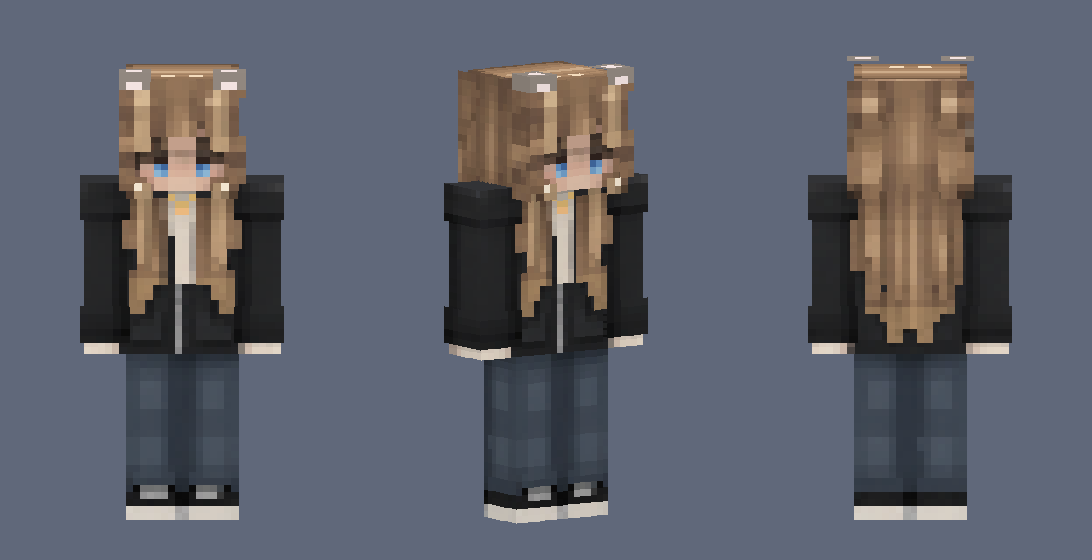
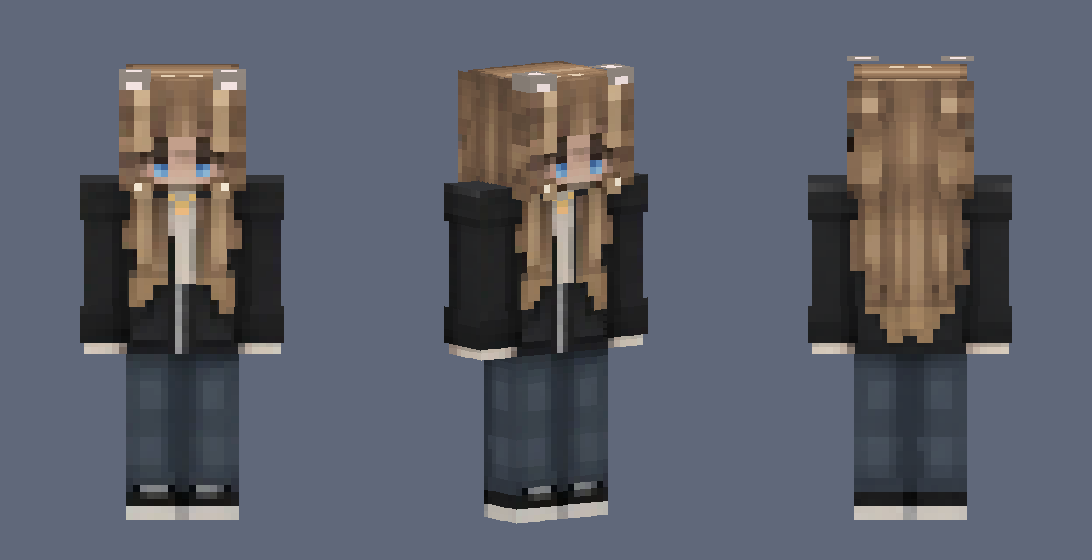
Resample front of the skin from the sharp close-up on the measured block grid
Claude-Session: https://claude.ai/code/session_01E8KVnok6Fx7faRrVpDBB9K

diff --git a/minecraft-skin/make_skin.py b/minecraft-skin/make_skin.py
@@ -1,44 +1,51 @@
-# Builds the 128x128 Bedrock skin by sampling the reference render (reference.png) texel by texel.
-import sys
+# Builds the 128x128 Bedrock skin by sampling the reference renders texel by texel.
+#   ref/front_close.png  sharp close-up of the front view   (main source)
+#   reference.png        overview with 3/4 and back view    (sides, top, back)
 from PIL import Image
-REF = Image.open("reference.png").convert("RGB"); RP = REF.load()
-GAIN = 1.22
-HOOD = (37,37,39)
+HI = Image.open("ref/front_close.png").convert("RGB"); KH = HI.width/924      # coords below are in a 924px-wide frame
+LO = Image.open("reference.png").convert("RGB")
+GAIN = 1.15
 
-def med(x, y, r=1):
-    xs = [RP[int(x)+i, int(y)+j] for i in range(-r, r+1) for j in range(-r, r+1)]
-    return tuple(sorted(c[k] for c in xs)[len(xs)//2] for k in range(3))
 def bright(c): return tuple(min(255, int(v*GAIN+0.5)) for v in c)
 def is_hair(c):
     r, g, b = c
-    return r > 40 and (r-b)/r > 0.29 and r < 200
+    return 40 < r < 200 and (r-b)/r > 0.29
+def cell(img, x0, y0, x1, y1):                      # median colour of the inner part of a box
+    mx, my = (x1-x0)*0.22, (y1-y0)*0.22
+    box = img.crop((int(x0+mx), int(y0+my), max(int(x0+mx)+1, int(x1-mx)), max(int(y0+my)+1, int(y1-my))))
+    px = list(box.getdata() if not hasattr(box, "get_flattened_data") else box.get_flattened_data())
+    return tuple(sorted(p[k] for p in px)[len(px)//2] for k in range(3))
+def grid(img, k, x0, y0, x1, y1, w, h):             # sample a w*h texel grid from a rectangle
+    return {(i, j): cell(img, k*(x0+i*(x1-x0)/w), k*(y0+j*(y1-y0)/h), k*(x0+(i+1)*(x1-x0)/w), k*(y0+(j+1)*(y1-y0)/h))
+            for j in range(h) for i in range(w)}
+def quad(ox, oy, z, tl, tr, br, bl, w, h):          # sample a perspective quad from the overview
+    out = {}
+    for j in range(h):
+        for i in range(w):
+            a, b = (i+.5)/w, (j+.5)/h
+            X = (1-a)*(1-b)*tl[0] + a*(1-b)*tr[0] + a*b*br[0] + (1-a)*b*bl[0]
+            Y = (1-a)*(1-b)*tl[1] + a*(1-b)*tr[1] + a*b*br[1] + (1-a)*b*bl[1]
+            out[i, j] = cell(LO, ox+X/z-2, oy+Y/z-2, ox+X/z+2, oy+Y/z+2)
+    return out
+def front(x0, y0, x1, y1, w, h): return grid(HI, KH, x0, y0, x1, y1, w, h)
+def back(x0, y0, x1, y1, w, h):  return grid(LO, 0.25, x0+2800, y0+3760, x1+2800, y1+3760, w, h)   # crop origin (700,940), zoom 4
+def chunky(g, n=2):                                 # 8x8 blocks -> 16x16 texels
+    return {(i*n+a, j*n+b): c for (i, j), c in g.items() for a in range(n) for b in range(n)}
 
-class View:                                    # zoomed-crop coordinates -> reference pixels
-    def __init__(s, ox, oy, z=4): s.ox, s.oy, s.z = ox, oy, z
-    def rect(s, x0, y0, x1, y1, w, h):         # sample a w*h grid of texels
-        out = {}
-        for j in range(h):
-            for i in range(w):
-                X = s.ox + (x0 + (i+.5)*(x1-x0)/w)/s.z
-                Y = s.oy + (y0 + (j+.5)*(y1-y0)/h)/s.z
-                out[i, j] = med(X, Y)
-        return out
-    def quad(s, tl, tr, br, bl, w, h):
-        out = {}
-        for j in range(h):
-            for i in range(w):
-                a, b = (i+.5)/w, (j+.5)/h
-                X = (1-a)*(1-b)*tl[0] + a*(1-b)*tr[0] + a*b*br[0] + (1-a)*b*bl[0]
-                Y = (1-a)*(1-b)*tl[1] + a*(1-b)*tr[1] + a*b*br[1] + (1-a)*b*bl[1]
-                out[i, j] = med(s.ox + X/s.z, s.oy + Y/s.z)
-        return out
-F = View(90, 940); B = View(700, 940); M = View(390, 940, 3)
+# ---- hair palette taken from the sharp front view; low-res samples are snapped to it ----
+HEAD = (217, 298, 660, 730)                         # measured block grid of the head in the close-up
+_hat8 = front(*HEAD, 8, 8)
+_bf = front(235, 705, 650, 1345, 16, 24)
+_pal = sorted({c for c in list(_hat8.values()) + list(_bf.values()) if is_hair(c) and c[0] >= 70})
+def snap(c):
+    if not is_hair(c): return c
+    return min(_pal, key=lambda p: sum((a-b)**2 for a, b in zip(p, c)))
 
 def build(slim=True):
     img = Image.new("RGBA", (128, 128), (0, 0, 0, 0)); px = img.load()
-    def put(x, y, grid, keep=None, flip=False, fn=None):
-        w = max(i for i, _ in grid)+1
-        for (i, j), c in grid.items():
+    def put(x, y, g, keep=None, flip=False, fn=None):
+        w = max(i for i, _ in g)+1
+        for (i, j), c in g.items():
             if keep and not keep(i, j, c): continue
             c = fn(i, j, c) if fn else c
             px[int(2*x) + (w-1-i if flip else i), int(2*y)+j] = bright(c)+(255,)
@@ -46,20 +53,21 @@ def build(slim=True):
         for j in range(int(2*h)):
             for i in range(int(2*w)): px[int(2*x)+i, int(2*y)+j] = tuple(c)+(255,)
 
-    # ---- head ----
-    FACE = ["........", "........", "........", "........", "..S..S..", ".SSkkSS.", ".kkkkkk.", "..kkkk.."]
-    put(8, 8, F.rect(240, 180, 710, 650, 16, 16))                         # base face
-    put(40, 8, F.rect(210, 150, 739, 679, 16, 16),
-        keep=lambda i, j, c: FACE[j//2][i//2] == '.' and is_hair(c) and not (j == 0 and 4 <= i <= 11),
-        fn=lambda i, j, c: (112, 88, 66) if (j < 6 and c[0] < 70) else c)  # fringe / side locks
-    back = B.rect(253, 150, 755, 665, 16, 16)
-    put(24, 8, back); put(56, 8, back, keep=lambda i, j, c: j > 0 and (j < 6 or i < 4 or i > 11))
-    side = M.quad((130, 95), (355, 150), (355, 470), (135, 415), 16, 16)
-    def rowmed(g, j):
-        v = sorted(c for (i, jj), c in g.items() if jj == j and c[0] >= 85 and c[0] > c[2] + 8)
+    # ---------------- head ----------------
+    face = front(*HEAD, 16, 16)
+    for i in range(16):                                                    # below the chin the render shows the shirt
+        if not is_hair(face[i, 15]) and face[i, 15][0] - face[i, 15][2] < 25: face[i, 15] = face[i, 14]
+    put(8, 8, face)                                                        # face + hair (base layer)
+    lit = lambda c: is_hair(c) and c[0] >= 78                              # dark blocks are shadowed hair, not hat
+    put(40, 8, face, keep=lambda i, j, c: lit(c) and lit(_hat8[i//2, j//2]) and not (j == 0 and 4 <= i <= 11))
+    bk = {k: snap(c) for k, c in back(253, 150, 755, 665, 16, 16).items()}
+    put(24, 8, bk); put(56, 8, bk, keep=lambda i, j, c: j > 0 and (j < 6 or i < 4 or i > 11))
+    side = quad(390, 940, 3, (130, 95), (355, 150), (355, 470), (135, 415), 16, 16)
+    def rowmed(j):
+        v = sorted(c for (i, jj), c in side.items() if jj == j and c[0] >= 85 and c[0] > c[2]+8)
         return v[len(v)//2] if v else (121, 95, 72)
-    side = {(i, j): (c if (c[0] >= 85 and c[0] > c[2] + 8) else rowmed(side, j)) for (i, j), c in side.items()}
-    ear = lambda i, j, c: j > 0 or i >= 12                               # top edge stays only where the ear is
+    side = {(i, j): snap(c if (c[0] >= 85 and c[0] > c[2]+8) else rowmed(j)) for (i, j), c in side.items()}
+    ear = lambda i, j, c: j > 0 or i >= 12
     put(0, 8, side); put(32, 8, side, keep=ear); put(16, 8, side, flip=True); put(48, 8, side, keep=ear, flip=True)
     TONE = {'D': (88, 68, 52), 'M': (121, 95, 72), 'm': (133, 105, 80), 'L': (144, 115, 88),
             'H': (168, 141, 113), 'W': (200, 180, 155)}
@@ -71,46 +79,53 @@ def build(slim=True):
         return TONE[t]
     top = {(i, j): top_c(i, j) for i in range(16) for j in range(16)}
     put(8, 0, top)
-    # ears: corner caps of the hat layer, closed by the front and side hair walls
-    put(40, 0, top, keep=lambda i, j, c: i//2 in (0, 1, 6, 7) and j//2 in (6, 7),
+    put(40, 0, top, keep=lambda i, j, c: i//2 in (0, 1, 6, 7) and j//2 in (6, 7),   # ears: closed corner caps
         fn=lambda i, j, c: TONE['H'] if j in (13, 14) and i in (1, 2, 13, 14) else TONE['L'])
-    skin = F.rect(300, 600, 650, 640, 16, 16)
-    put(16, 0, skin, fn=lambda i, j, c: c if 2 <= i <= 13 and 2 <= j <= 13 else (95, 74, 58))
+    chin = front(300, 660, 590, 700, 16, 16)
+    put(16, 0, chin, fn=lambda i, j, c: c if 2 <= i <= 13 and 2 <= j <= 13 else (95, 74, 58))
 
-    # ---- body ----
-    bf = F.rect(240, 650, 710, 1370, 16, 24); bb = B.rect(270, 650, 750, 1370, 16, 24)
-    def under(i, j, c):                                                    # hoodie hidden under the hair
-        if is_hair(c) or (c[0] - c[2] > 12 and c[0] < 110): return (30, 30, 32)   # hair / hair-edge smudge
+    # ---------------- body ----------------
+    bf = dict(_bf); bb = back(270, 650, 750, 1370, 16, 24)
+    for j in range(24):                                                    # thin zipper sits between two texels
+        z = cell(HI, KH*435, KH*(705+j*640/24), KH*445, KH*(705+(j+1)*640/24))
+        if z[0] > 95 and abs(z[0]-z[2]) < 14 and j >= 13: bf[7, j] = z
+    for i in range(16):                                                    # neck rows are hidden behind the chin in the render
+        for j in (0, 1):
+            if not is_hair(bf[i, 2]): bf[i, j] = bf[i, 2]
+    def under(i, j, c):
+        if is_hair(c) or (c[0]-c[2] > 12 and c[0] < 110): return (30, 30, 32)
         return c
-    def strand(g):                                                         # solid hair only, no stray pixels
-        h = {k for k, c in g.items() if is_hair(c) and c[0] >= 78}
+    def strand(g):
+        h = {k for k, c in g.items() if is_hair(c) and c[0] >= 70}
         nb = lambda i, j: sum((i+a, j+b) in h for a, b in ((1, 0), (-1, 0), (0, 1), (0, -1)))
         return {k for k in h if nb(*k) >= 2 or k[1] == 0}
     hf, hb = strand(bf), strand(bb)
     put(20, 20, bf, fn=under); put(32, 20, bb, fn=under)
-    put(20, 36, bf, keep=lambda i, j, c: (i, j) in hf); put(32, 36, bb, keep=lambda i, j, c: (i, j) in hb)
-    solid(16, 20, 4, 12, HOOD); solid(28, 20, 4, 12, HOOD); solid(20, 16, 8, 4, (48, 49, 52)); solid(28, 16, 8, 4, (26, 26, 28))
+    put(20, 36, bf, keep=lambda i, j, c: (i, j) in hf); put(32, 36, bb, keep=lambda i, j, c: (i, j) in hb, fn=lambda i, j, c: snap(c))
+    HOOD = bf[0, 20]
+    solid(16, 20, 4, 12, bright(HOOD)); solid(28, 20, 4, 12, bright(HOOD))
+    solid(20, 16, 8, 4, (48, 49, 52)); solid(28, 16, 8, 4, (26, 26, 28))
 
-    # ---- arms ----
+    # ---------------- arms ----------------
     aw = 3 if slim else 4
-    def arm(x, y, ox, oy, front, back):
+    def arm(x, y, ox, oy, fr, bk):
         nohair = lambda i, j, c: (30, 30, 32) if is_hair(c) else c
-        wide = {(i, j): back[min(2*aw-1, i*2*aw//8), j] for i in range(8) for j in range(24)}
+        wide = {(i, j): bk[min(2*aw-1, i*2*aw//8), j] for i in range(8) for j in range(24)}
         bulge = lambda i, j, c: j <= 4 or 17 <= j <= 21
         for bx, by, keep in ((x, y, None), (ox, oy, bulge)):
-            put(bx, by+4, wide, keep, fn=nohair); put(bx+4, by+4, front, keep, fn=nohair)
-            put(bx+4+aw, by+4, wide, keep, fn=nohair); put(bx+8+aw, by+4, back, keep, fn=nohair)
+            put(bx, by+4, wide, keep, fn=nohair); put(bx+4, by+4, fr, keep, fn=nohair)
+            put(bx+4+aw, by+4, wide, keep, fn=nohair); put(bx+8+aw, by+4, bk, keep, fn=nohair)
             solid(bx+4, by, aw, 4, (50, 51, 54))
-        solid(x+4+aw, y, aw, 4, bright(front[2, 23]))
-    arm(40, 16, 40, 32, F.rect(70, 625, 240, 1345, 2*aw, 24), B.rect(750, 625, 905, 1345, 2*aw, 24))
-    arm(32, 48, 48, 48, F.rect(710, 625, 880, 1345, 2*aw, 24), B.rect(100, 625, 270, 1345, 2*aw, 24))
+        solid(x+4+aw, y, aw, 4, bright(fr[2, 23]))
+    arm(40, 16, 40, 32, front(97, 705, 233, 1320, 2*aw, 24), back(752, 625, 903, 1345, 2*aw, 24))
+    arm(32, 48, 48, 48, front(652, 705, 798, 1320, 2*aw, 24), back(102, 625, 268, 1345, 2*aw, 24))
 
-    # ---- legs ----
-    def leg(x, y, front, back):
-        put(x+4, y+4, front); put(x+12, y+4, back); put(x, y+4, back); put(x+8, y+4, back, flip=True)
-        solid(x+4, y, 4, 4, bright(front[3, 1])); solid(x+8, y, 4, 4, bright(front[3, 23]))
-    leg(0, 16, F.rect(240, 1375, 470, 2030, 8, 24), B.rect(505, 1375, 740, 2030, 8, 24))
-    leg(16, 48, F.rect(475, 1375, 710, 2030, 8, 24), B.rect(270, 1375, 505, 2030, 8, 24))
+    # ---------------- legs ----------------
+    def leg(x, y, fr, bk):
+        put(x+4, y+4, fr); put(x+12, y+4, bk); put(x, y+4, bk); put(x+8, y+4, bk, flip=True)
+        solid(x+4, y, 4, 4, bright(fr[3, 1])); solid(x+8, y, 4, 4, bright(fr[3, 23]))
+    leg(0, 16, front(240, 1345, 440, 1920, 8, 24), back(505, 1375, 740, 2030, 8, 24))
+    leg(16, 48, front(445, 1345, 650, 1920, 8, 24), back(270, 1375, 505, 2030, 8, 24))
     return img
 
 def v2(img):
